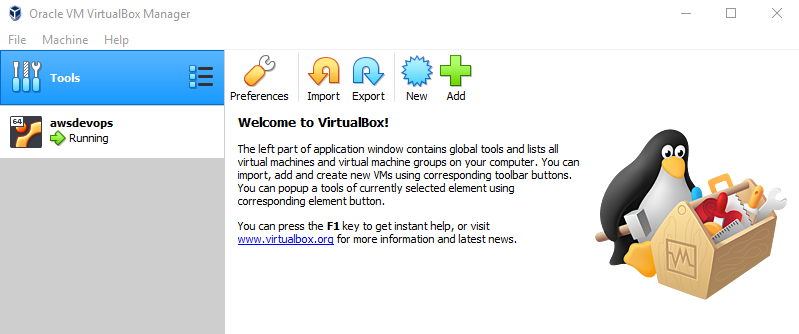
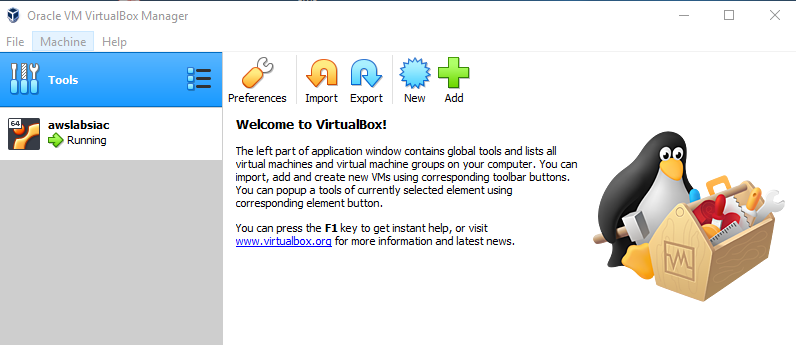
Change documentation

diff --git a/README.md b/README.md
@@ -33,18 +33,14 @@ You need to have these programs in place:
 - once logged in: configure your aws client by running: **aws configure**
 
 ## SECOND STEP
-- Clone this repository again in linux box by running: **git clone https://github.com/gberlotperalta/aws_lab_devops.git** 
-- Need to specify the Key Pair in file /terraform/app_name/prod if you want to connect to it. 
-- First create and pem in aws console and later download locally.  
-- Copy the file to linux machine  
-
+- Clone this repository again, but now in linux vm by running: **git clone https://github.com/gberlotperalta/aws_labs_iac.git** 
+- Create a key pair in aws console (.pem) and later download on your local git repo.
 
 ## CREATING INFRA
-
 - Run the following commands.
 
 sudo bash  
-cd /aws_devops    
+cd /aws_labs_iac    
 cp <Your_Pem_File_Name>.pem /home/vagrant  
 cd /home/vagrant  
 chmod 400 <Your_Pem_File_Name>.pem  
